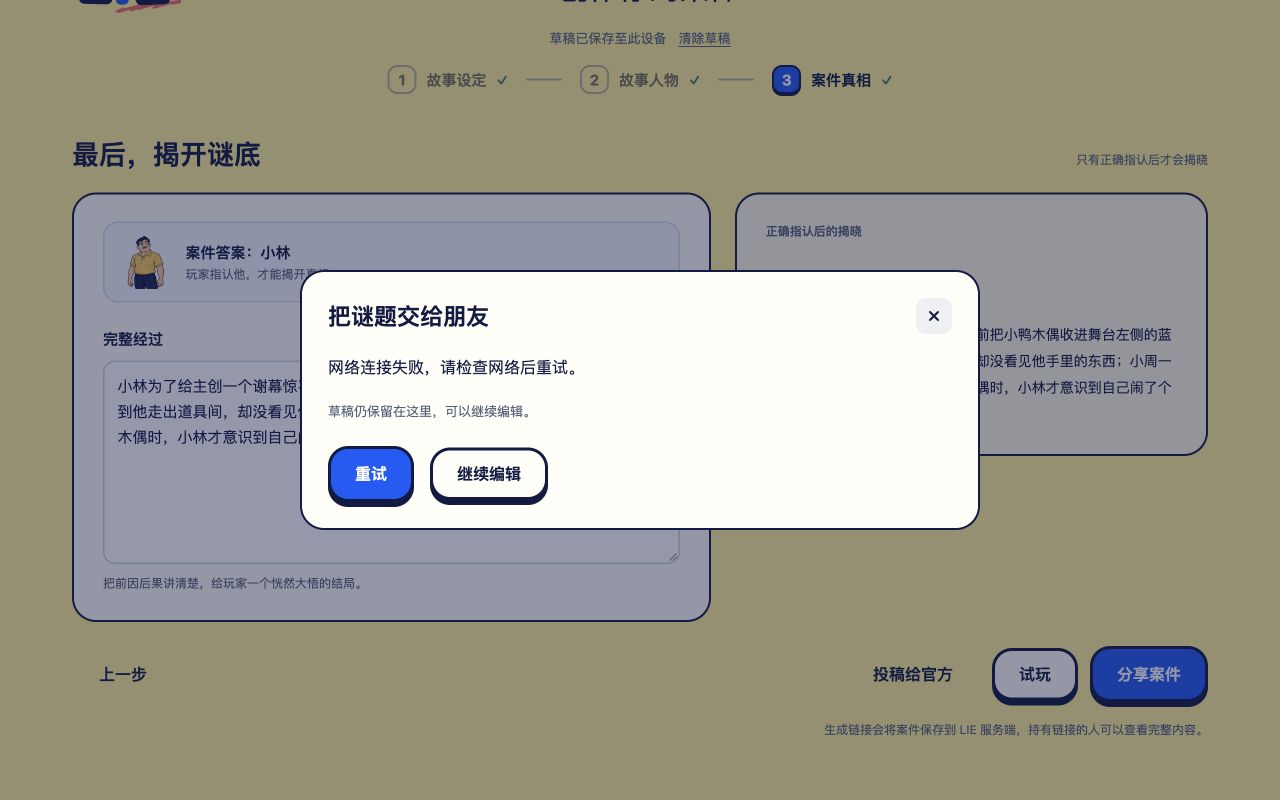
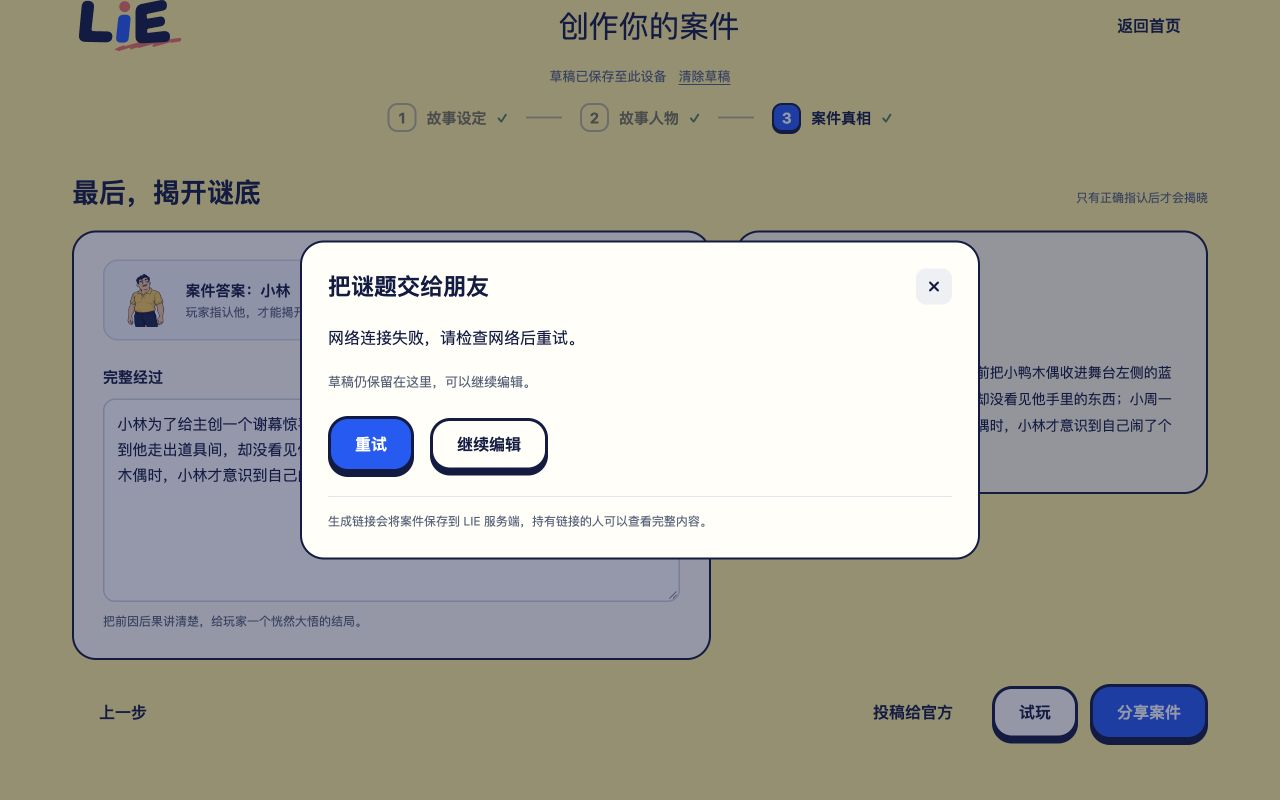
design: move storage disclosure into sharing dialog

diff --git a/design/share-storage-demo/style.css b/design/share-storage-demo/style.css
@@ -10,7 +10,7 @@
 .role-switch button[aria-pressed=true] { background: #111b45; border-color: #111b45; color: white; }
 .demo-shell { max-width: 1200px; padding: 24px 32px 60px; }
 .demo-shell .page-heading { margin-top: 28px; }
-.demo-shell .share-disclosure { text-align: right; font-size: 12px; color: var(--lie-muted); margin: 18px 0 0; }
+.share-disclosure { font-size: 12px; line-height: 1.7; color: var(--lie-muted); margin: 24px 0 0; padding-top: 14px; border-top: 1px solid #e3e5e9; }
 .demo-shell .ending-layout { grid-template-columns: minmax(0, 1.35fr) minmax(0, 1fr); }
 .reveal-text { white-space: pre-wrap; }
 .share-lead { margin: 0 0 20px; }
@@ -26,6 +26,6 @@
 .demo-feedback { background: var(--lie-soft-blue); padding: 10px; border-radius: 12px; font-size: 13px; }
 @keyframes spin { to { transform: rotate(360deg); } }
 @media (prefers-reduced-motion: reduce) { .loading-ring { animation: none; } }
-@media (max-width: 670px) { .prototype-bar { padding: 12px 16px; }.prototype-heading { gap: 3px; }.prototype-heading span { width: 100%; font-size: 11px; }.prototype-controls { gap: 10px; }.prototype-controls p { display: none; }.demo-shell { padding: 16px 16px 36px; }.demo-shell .ending-layout { grid-template-columns: 1fr; }.demo-shell .player-preview { display: none; }.demo-shell .page-heading { align-items: start; flex-direction: column; gap: 5px; }.demo-shell .share-disclosure { text-align: left; }.share-actions { align-items: stretch; flex-direction: column; }.state-card { padding: 28px 18px; }.state-card h1 { font-size: 24px; }.prototype-controls label { font-size: 12px; }.demo-shell .intro-card { padding: 28px 20px; }.demo-shell .intro-characters { padding-inline: 0; }.demo-shell .flow-hint { gap: 18px; }.demo-shell .flow-hint li { padding: 6px 4px; font-size: 12px; }.demo-shell .flow-hint li + li::before { left: -15px; }.demo-shell .intro-start { font-size: 19px; } }
+@media (max-width: 670px) { .prototype-bar { padding: 12px 16px; }.prototype-heading { gap: 3px; }.prototype-heading span { width: 100%; font-size: 11px; }.prototype-controls { gap: 10px; }.prototype-controls p { display: none; }.demo-shell { padding: 16px 16px 36px; }.demo-shell .ending-layout { grid-template-columns: 1fr; }.demo-shell .player-preview { display: none; }.demo-shell .page-heading { align-items: start; flex-direction: column; gap: 5px; }.share-actions { align-items: stretch; flex-direction: column; }.state-card { padding: 28px 18px; }.state-card h1 { font-size: 24px; }.prototype-controls label { font-size: 12px; }.demo-shell .intro-card { padding: 28px 20px; }.demo-shell .intro-characters { padding-inline: 0; }.demo-shell .flow-hint { gap: 18px; }.demo-shell .flow-hint li { padding: 6px 4px; font-size: 12px; }.demo-shell .flow-hint li + li::before { left: -15px; }.demo-shell .intro-start { font-size: 19px; } }
 .share-pending { min-height: 170px; display: flex; flex-direction: column; align-items: center; justify-content: center; padding: 12px 0 24px; text-align: center; }
 .share-pending p { margin: 18px 0 6px; font-weight: 700; }

diff --git a/design/share-storage-demo/ShareDemo.vue b/design/share-storage-demo/ShareDemo.vue
@@ -102,7 +102,6 @@ onUnmounted(cancelPending)
         </div>
         <footer class="step-footer"><UiButton variant="quiet" @click="notice = '本原型聚焦分享体验，不切换完整编辑步骤。'">上一步</UiButton><div class="final-actions"><UiButton variant="quiet" @click="notice = '投稿给官方的既有流程保持原样。'">投稿给官方</UiButton><UiButton variant="secondary" @click="openPlayer">试玩</UiButton><UiButton @click="share">分享案件</UiButton></div></footer>
       </fieldset>
-      <p class="share-disclosure">生成链接会将案件保存到 LIE 服务端，持有链接的人可以查看完整内容。</p>
       <p v-if="notice != null" class="demo-feedback" role="status">{{ notice }}</p>
     </main>
     <EditorDialog v-if="dialog" title="把谜题交给朋友" @close="closeShare">
@@ -119,6 +118,7 @@ onUnmounted(cancelPending)
         <p v-if="copyError" class="copy-error" role="status">无法自动复制，请选中上方链接手动复制。</p>
         <div class="share-actions"><UiButton @click="copy">{{ copied ? '已复制链接' : '复制分享链接' }}</UiButton></div>
       </template>
+      <p class="share-disclosure">生成链接会将案件保存到 LIE 服务端，持有链接的人可以查看完整内容。</p>
     </EditorDialog>
   </div>
 

diff --git a/docs/share-storage-ui-demo.md b/docs/share-storage-ui-demo.md
@@ -6,7 +6,7 @@
 
 独立Vue/TypeScript原型在 `design/share-storage-demo/`，复用现有ProductHeader、UiButton、EditorDialog及编辑器/游戏样式，沿用已确认的中文B视觉。未改正式Editor/Application、UI公共组件或其他专项文件。
 
-按用户后续反馈修订：作者从现有第三步结局页点击「分享案件」立即打开同一弹窗，弹窗内显示保存中、失败或成功；不在底部按钮展示等待或在页面底部另报接口错误。成功弹窗保留「把谜题交给朋友」标题、复制链接和快照说明，去掉旧URL字符计数。分享入口附一句存储说明，不增加确认弹窗或发布流程。网络或服务失败在弹窗内提示，并给「重试」「继续编辑」；草稿保持。超限也在同一弹窗提示精简内容，仅给「继续编辑」。等待期间可关闭弹窗，模拟计时器随之停止，迟到结果不重新打开弹窗；不承诺真实请求因此没有保存。弹窗不增加Demo导航，接收方体验从外部工具栏切换。
+按用户后续反馈修订：作者从现有第三步结局页点击「分享案件」立即打开同一弹窗，弹窗内显示保存中、失败或成功；不在底部按钮展示等待或在页面底部另报接口错误。成功弹窗保留「把谜题交给朋友」标题、复制链接和快照说明，去掉旧URL字符计数。存储说明统一放在分享弹窗底部，保存中、失败、成功均显示一次；编辑页不显示。不增加确认弹窗或发布流程。网络或服务失败在弹窗内提示，并给「重试」「继续编辑」；草稿保持。超限也在同一弹窗提示精简内容，仅给「继续编辑」。等待期间可关闭弹窗，模拟计时器随之停止，迟到结果不重新打开弹窗；不承诺真实请求因此没有保存。弹窗不增加Demo导航，接收方体验从外部工具栏切换。
 
 玩家打开时展示加载，随后沿现有接案页展示案件与人物。网络错误可重新加载，不存在时提示向作者确认链接，支持返回首页。不会自动进入语音或申请麦克风。
 
@@ -47,3 +47,5 @@ node node_modules/vite/bin/vite.js --config design/share-storage-demo/vite.confi
 用户要求保存接口的等待及异常统一在分享弹窗中，已替换初稿页面按钮等待/外部错误展示。`c4ee640e0691b36d429051f8df5307e2f0669c3a`保留初稿历史，当前截图和代码为修订版；不改正式产品或额外部署。
 
 修订验收：子agent本轮IAB工具不可用，经协调使用新建专属Chrome tab验收，未操作root可见IAB或用户其他tab。桌面保存中→成功、网络失败→弹窗重试、等待中关闭后迟到结果不重开；390×844失败→继续编辑、超限仅继续编辑、保存中→成功均通过。390px无横向溢出，console无warn/error。验收后重置viewport、关闭此Chrome tab，5177原服务继续保留。截图新增share-loading与share-error的desktop/mobile对照，覆盖成功/超限的旧图；初稿图仍可从c4ee历史追溯。
+
+用户再次明确将存储说明从编辑页移入分享弹窗：当前说明置于状态和操作区之后，用低调分隔与小字统一展示，所有分享状态共享一次，未增加任何确认步骤。此修订追加提交，不改已交历史。Chrome专属验收页已核桌面/390×844等待、失败、成功和超限状态，说明均在弹窗内仅出现一次，编辑页不显示；移动无横向溢出。截图已同步更新，验收tab关闭且viewport重置；类型/构建检查通过，原5177服务继续供用户审看。
